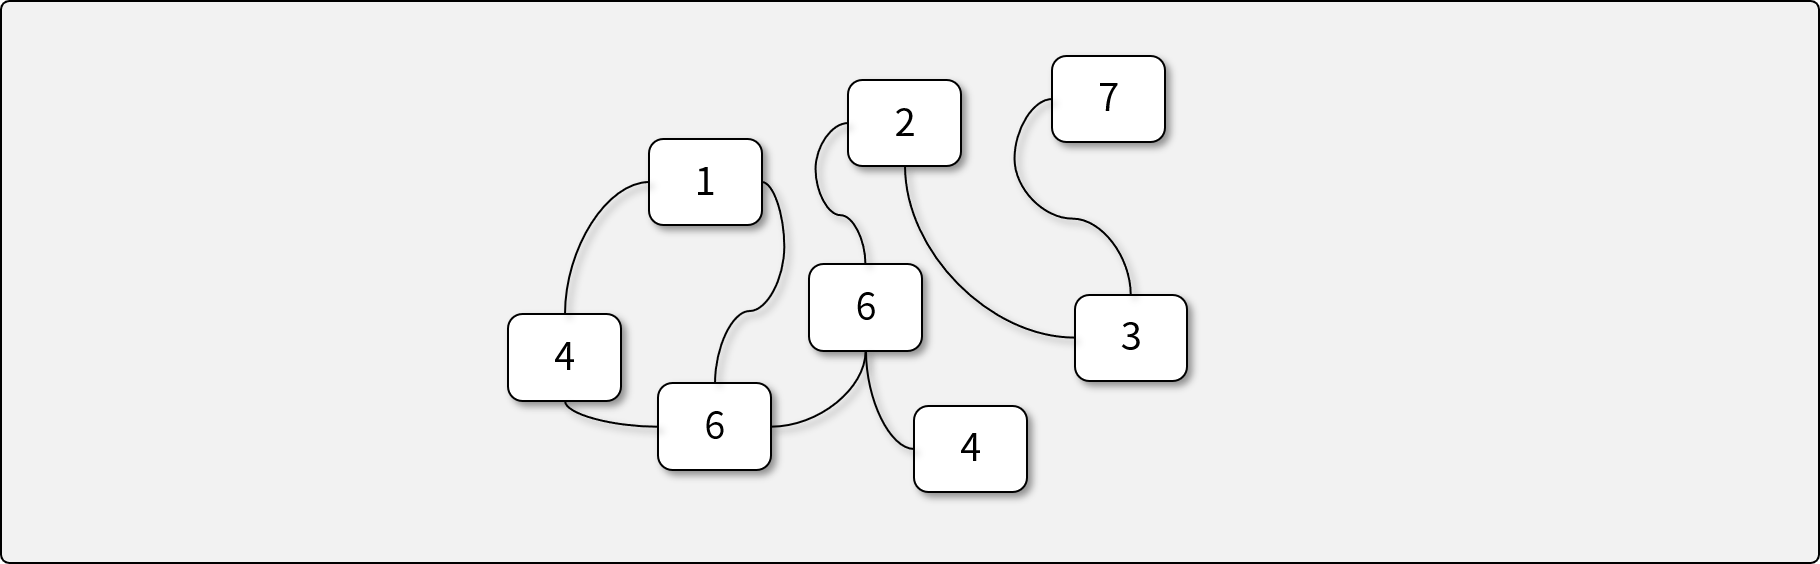
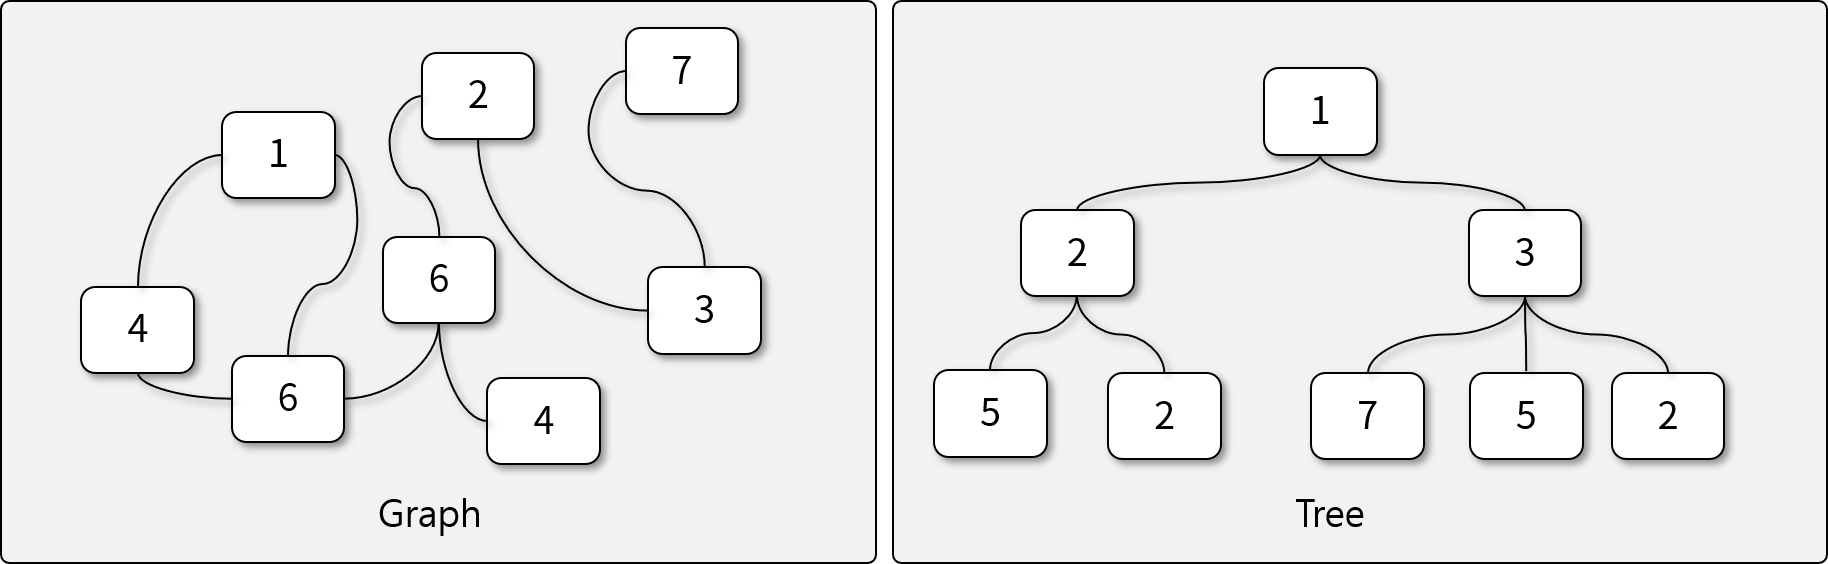
.

diff --git a/1_Introduction/1_1_DataStructure/README.md b/1_Introduction/1_1_DataStructure/README.md
@@ -23,10 +23,20 @@
 
 ![자료구조의_종류](./img/1.png)
 
+- 크게 선형 자료구조와 비선형 자료구조로 나누어 볼 수 있다.
+- 이외에도 다양한 자료구조가 있으며, 주요 자료구조에 대해서 알아볼 것이다.
+
 #### 선형 자료구조
 
-![자료구조의_종류](./img/2.png)
+![선형_자료구조](./img/2.png)
+
+- 선형 자료구조는 자료가 일자로 연결된 경우를 말한다.
+- 선형으로 연결된 방법에 따라 분류할 수 있으며, Array와 Linked List 등을 기반으로 Stack, Queue 등을 만들어 사용한다.
 
 #### 비선형 자료구조
 
-![자료구조의_종류](./img/3.png)
+![비선형_자료구조](./img/3.png)
+
+- 선형으로 연결되지 않은 모든 자료 구조를 말한다.
+- 비선형 구조를 가장 일반적으로 표현하는 자료구조를 Graph라 한다.
+- Top Node와 Child Node들로 구성된 Tree 구조가 많이 사용된다.
